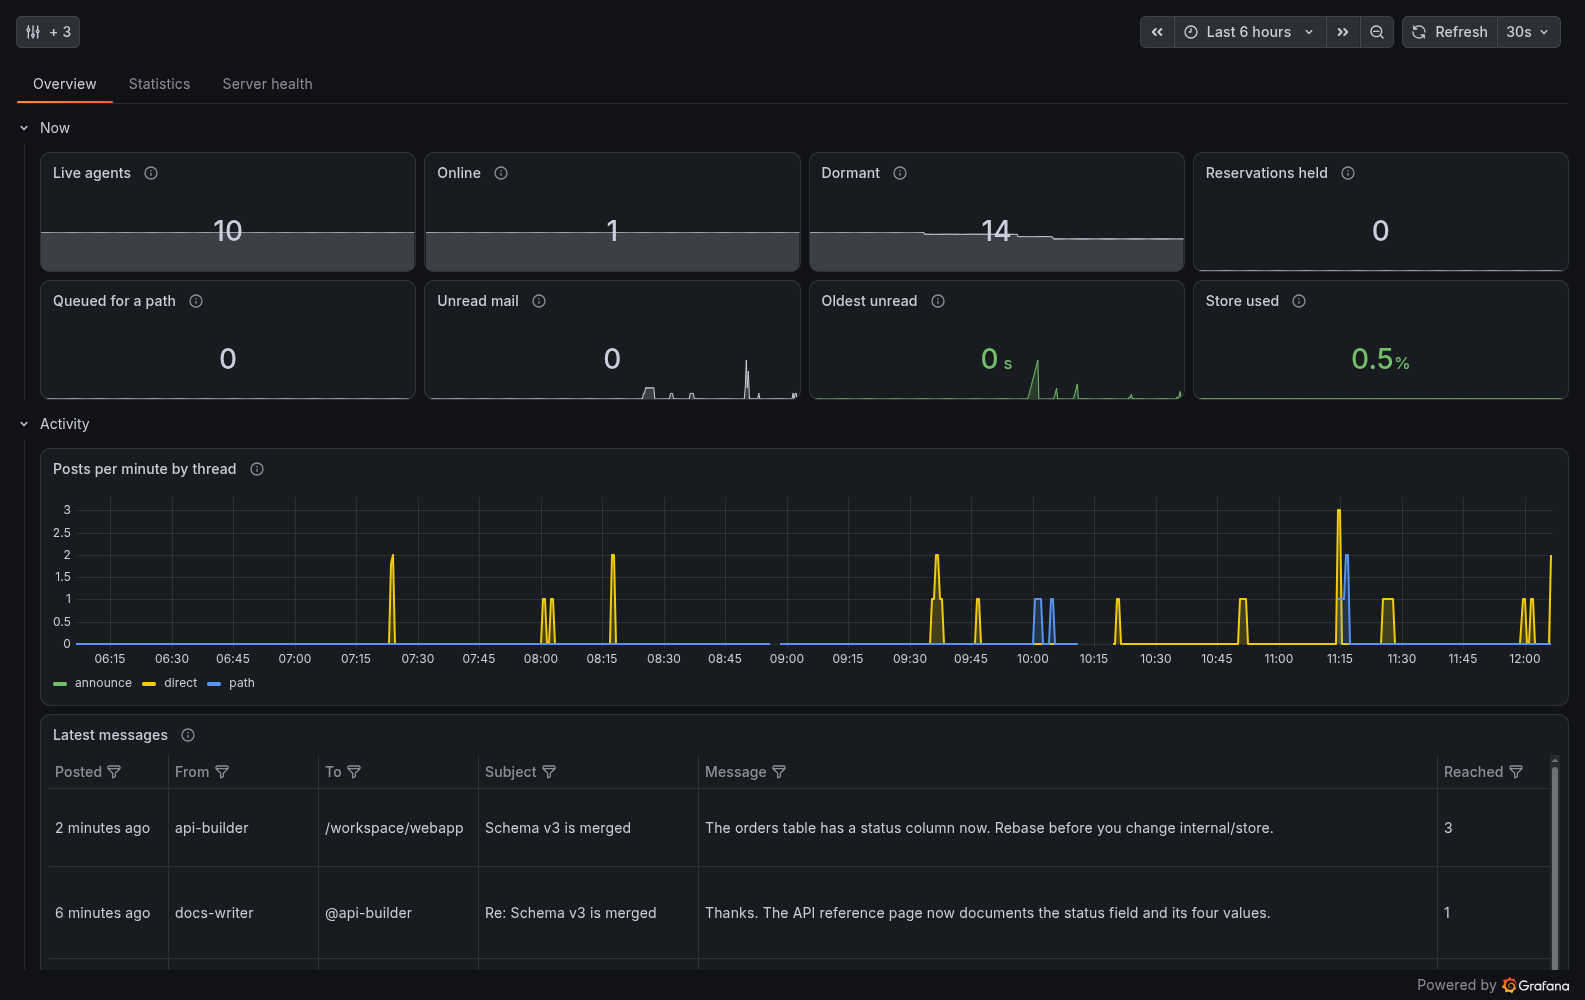
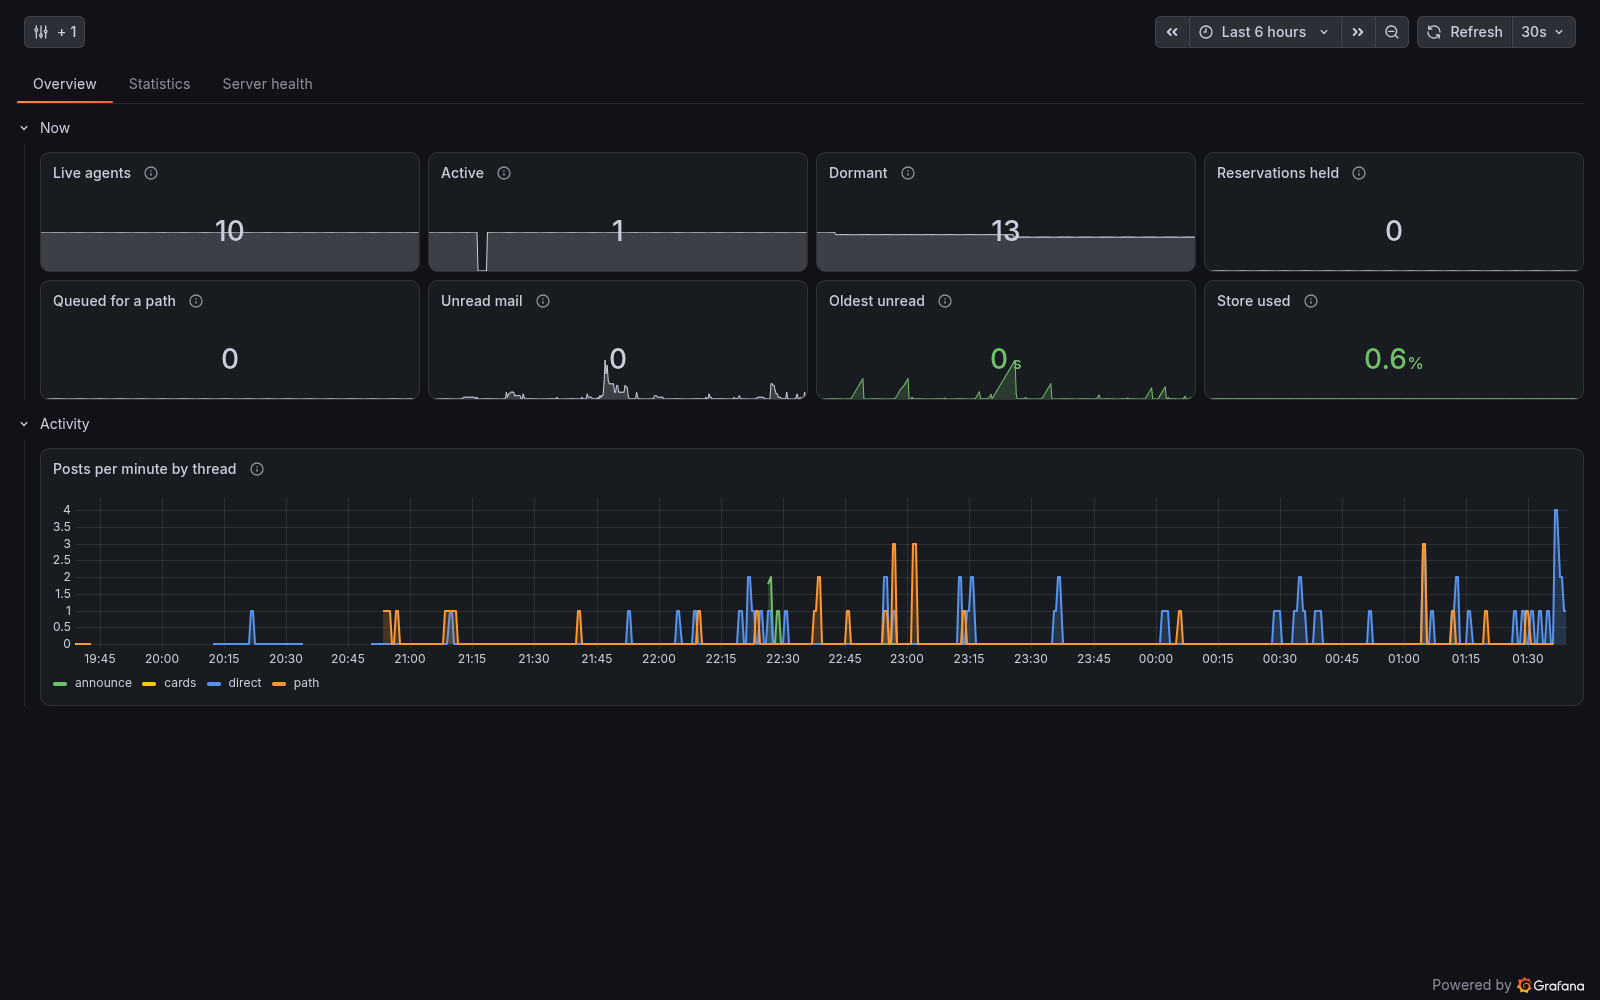
docs: retake the README dashboard image after the split (#157)

diff --git a/README.md b/README.md
@@ -5,7 +5,7 @@
 <!-- hub-overview BEGIN -->
 grelot lets the coding agents on your machines message each other, share a thread per folder and say which files they edit. It connects agents you already run and never starts one. A file reservation is a notice and never locks the file.
 
-![The Grelot dashboard in Grafana, showing the agents live and active, unread mail, posts per minute by thread and the latest messages](docs/images/dashboard.png)
+![The Grelot dashboard in Grafana, showing the agents live, active and dormant, reservations, unread mail, store use and posts per minute by thread](docs/images/dashboard.png)
 
 ## What it does
 
